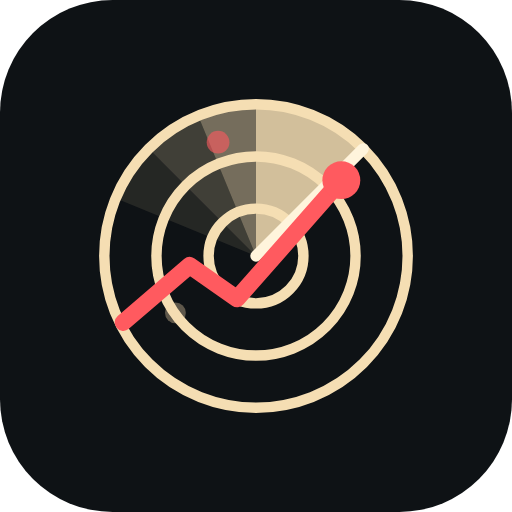
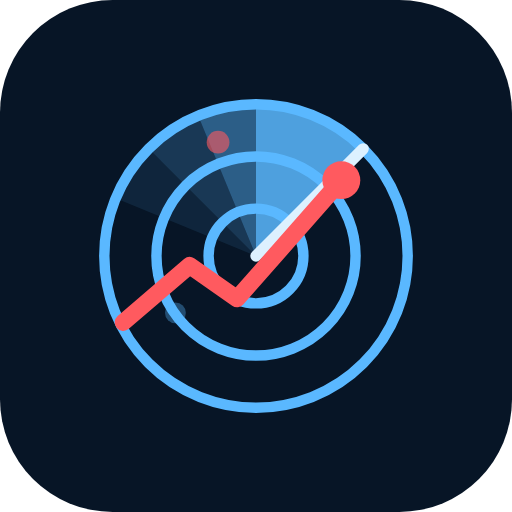
stock-app: 改名掃雷專區、藍色雷達
Claude-Session: https://claude.ai/code/session_01UVNmn5S34akG59uVThmBf3

Changed region(s): [[0.1875, 0.1875, 0.8125, 0.8125], [0.4688, 0.4688, 0.625, 0.625]]

diff --git a/stock-app/src/ai/claude.ts b/stock-app/src/ai/claude.ts
@@ -309,7 +309,7 @@ export function claudeAppPrompt(s: Scored, today: string, holding?: Holding): st
     ? "請用網路搜尋查最近 7 天的新聞、財報與分析師看法。"
     : "如果你有連接台股資料工具（MCP，例如證交所／櫃買資料），請用它查這檔的每月營收、三大法人、融資融券與重大訊息；並用網路搜尋查最近 7 天的新聞與法說會。";
   const d = /^\d{8}$/.test(today) ? `${today.slice(0, 4)}/${today.slice(4, 6)}/${today.slice(6)}` : today;
-  return `今天是 ${d}。我用「股市雷達」App 篩選股票，請幫我分析這檔${etf ? " ETF" : "股票"}，用繁體中文、台灣用語回答。
+  return `今天是 ${d}。我用「掃雷專區」App 篩選股票，請幫我分析這檔${etf ? " ETF" : "股票"}，用繁體中文、台灣用語回答。
 
 【App 的數據】
 ${stockBrief(s, holding)}
@@ -381,5 +381,5 @@ ${cand}
   if (!forApp) return prompt;
   return `${prompt}
 
-（請用繁體中文、台灣用語回答。如果你有連接台股資料工具（MCP，例如證交所／櫃買資料），請用它查營收、三大法人與重大訊息；並用網路搜尋查最近新聞。回答完我會把整段回覆貼回「股市雷達」App 和另一份建議比較，所以最後的 JSON 區塊一定要有。）`;
+（請用繁體中文、台灣用語回答。如果你有連接台股資料工具（MCP，例如證交所／櫃買資料），請用它查營收、三大法人與重大訊息；並用網路搜尋查最近新聞。回答完我會把整段回覆貼回「掃雷專區」App 和另一份建議比較，所以最後的 JSON 區塊一定要有。）`;
 }

diff --git a/stock-app/src/styles.css b/stock-app/src/styles.css
@@ -170,8 +170,8 @@ a.btn[aria-disabled="true"] { opacity: 0.5; pointer-events: none; }
 /* 標題旁的動態雷達：掃描區每 3 秒轉一圈 */
 .brand { display: flex; align-items: center; gap: 8px; }
 .radar-logo { width: 28px; height: 28px; flex: none; }
-.radar-logo circle { fill: none; stroke: var(--accent); stroke-width: 3; }
-.radar-logo .radar-sweep path { fill: var(--accent); }
+.radar-logo circle { fill: none; stroke: #3A9BEA; stroke-width: 3; }
+.radar-logo .radar-sweep path { fill: #3A9BEA; }
 .radar-logo .radar-sweep { transform-origin: 0 0; animation: radar-spin 3s linear infinite; }
 .radar-logo .radar-line { fill: none; stroke: var(--up); stroke-width: 5; stroke-linecap: round; stroke-linejoin: round; }
 @keyframes radar-spin { to { transform: rotate(360deg); } }

diff --git a/stock-app/src/app.tsx b/stock-app/src/app.tsx
@@ -53,7 +53,7 @@ export function App() {
             <circle r="32" /><circle r="21" /><circle r="10" />
             <polyline points="-28,14 -14,2 -4,9 18,-16" class="radar-line" />
           </svg>
-          <span>股市<b>雷達</b></span>
+          <span>掃雷<b>專區</b></span>
         </div>
         <div class="asof num">
           {ms.asOf ? <>{market === "US" ? "美股" : "台股"}資料 {pretty(ms.asOf)}</> : loaded ? "尚無資料" : ""}

diff --git a/stock-app/index.html b/stock-app/index.html
@@ -5,7 +5,7 @@
     <meta name="viewport" content="width=device-width, initial-scale=1, viewport-fit=cover" />
     <meta name="color-scheme" content="dark light" />
     <link rel="icon" href="./icon.png" />
-    <title>股市雷達</title>
+    <title>掃雷專區</title>
   </head>
   <body>
     <div id="app"></div>
